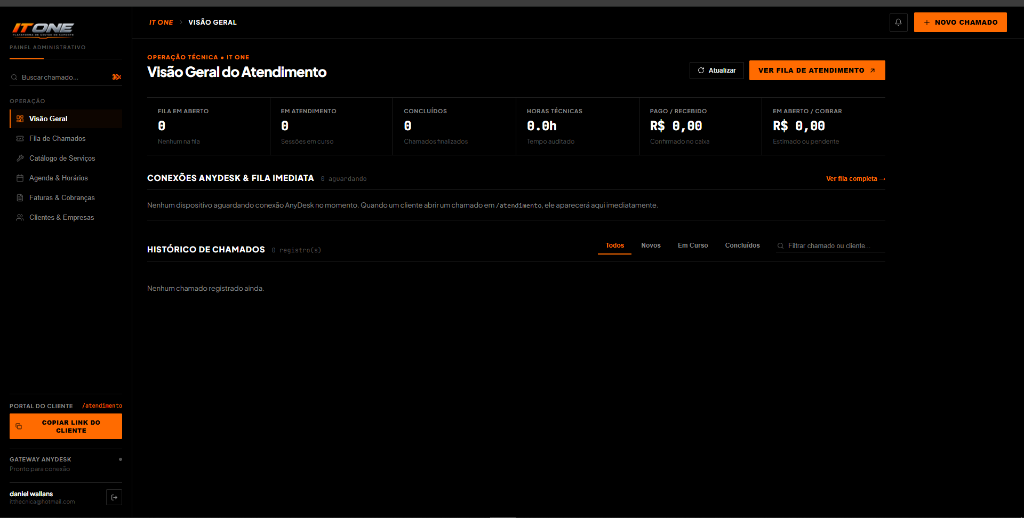
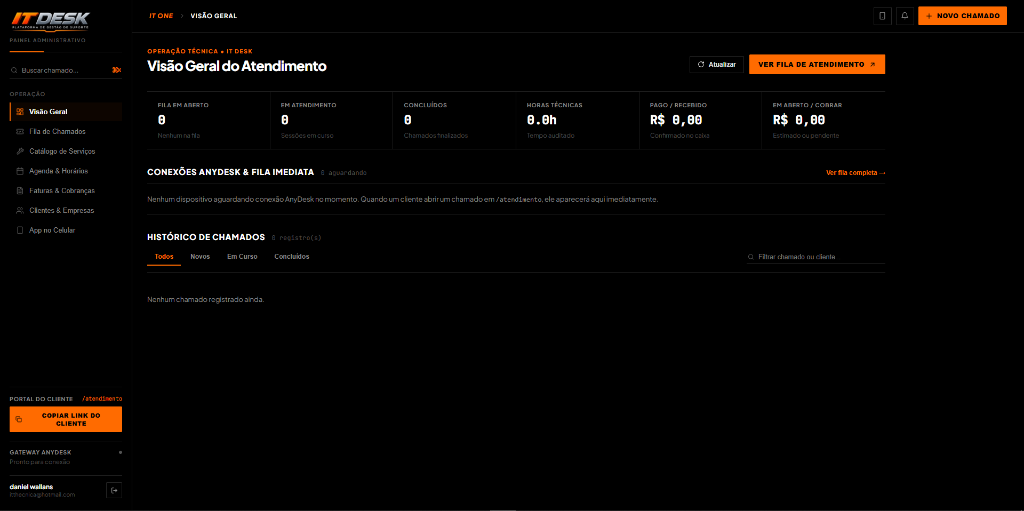
docs: humanize readme and update previews and app strings

diff --git a/apps/web/src/App.jsx b/apps/web/src/App.jsx
@@ -125,7 +125,7 @@ export default function App() {
         setPushSubscribed(false);
         if (interactive) {
           alert(
-            'Atenção iPhone (Safari): A Apple só libera notificações com o App Fechado / Tela Bloqueada quando você instala pelo Safari tocando em "Compartilhar" -> "Adicionar à Tela de Início". Adicione à Tela de Início, abra o novo ícone IT ONE com a logo oficial e toque neste botão novamente!'
+            'Atenção iPhone (Safari): A Apple só libera notificações com o App Fechado / Tela Bloqueada quando você instala pelo Safari tocando em "Compartilhar" -> "Adicionar à Tela de Início". Adicione à Tela de Início, abra o novo ícone IT DESK com a logo oficial e toque neste botão novamente!'
           );
         }
         return false;
@@ -153,7 +153,7 @@ export default function App() {
         const perm = await Notification.requestPermission();
         if (perm !== 'granted') {
           setPushSubscribed(false);
-          alert('Permissão de notificação negada. Ative as notificações para o app IT ONE nos Ajustes do iPhone.');
+          alert('Permissão de notificação negada. Ative as notificações para o app IT DESK nos Ajustes do iPhone.');
           return false;
         }
       }
@@ -288,7 +288,7 @@ export default function App() {
     window.history.replaceState({}, '', '/login');
   };
 
-  // Tela de Carregamento / Splash Screen Oficial IT ONE (Preto Absoluto + Efeitos Laranja + Barra de Progresso)
+  // Tela de Carregamento / Splash Screen Oficial IT DESK (Preto Absoluto + Efeitos Laranja + Barra de Progresso)
   if (booting && !isCustomerLandingRoute) {
     const bootStepLabel =
       bootProgress < 45
@@ -356,7 +356,7 @@ export default function App() {
           }}
         />
 
-        {/* Logo Oficial IT ONE — Plataforma de Gestão de Suporte */}
+        {/* Logo Oficial IT DESK — Plataforma de Gestão de Suporte */}
         <div
           style={{
             position: 'relative',
@@ -369,8 +369,8 @@ export default function App() {
           }}
         >
           <img
-            src="/assets/logo-it-one.png"
-            alt="IT ONE — Plataforma de Gestão de Suporte"
+            src="/assets/logo-it-desk.png"
+            alt="IT DESK — Plataforma de Gestão de Suporte"
             style={{
               width: '88%',
               maxWidth: '380px',
@@ -576,13 +576,13 @@ export default function App() {
           {/* Breadcrumb / Brand Mobile com Logo Oficial Destacada */}
           <div style={{ display: 'flex', alignItems: 'center', gap: '10px', fontSize: '12px', textTransform: 'uppercase', letterSpacing: '0.08em', minWidth: 0 }}>
             <img
-              src="/assets/logo-it-one.png"
-              alt="IT ONE"
+              src="/assets/logo-it-desk.png"
+              alt="IT DESK"
               className="adm-mobile-only"
               onClick={() => setCurrentTab('dashboard')}
               style={{ height: '32px', maxWidth: '140px', width: 'auto', objectFit: 'contain', cursor: 'pointer', flexShrink: 0 }}
             />
-            <span className="adm-desktop-only" style={{ color: 'var(--orange)', fontWeight: 800, fontStyle: 'italic' }}>IT ONE</span>
+            <span className="adm-desktop-only" style={{ color: 'var(--orange)', fontWeight: 800, fontStyle: 'italic' }}>IT DESK</span>
             <ChevronRight size={13} color="var(--text-tertiary)" style={{ flexShrink: 0 }} />
             <span style={{ color: 'var(--text-white)', fontWeight: 700, whiteSpace: 'nowrap', overflow: 'hidden', textOverflow: 'ellipsis', fontSize: '11.5px' }}>
               {tabLabels[currentTab]}

diff --git a/README.md b/README.md
@@ -1,61 +1,10 @@
-<div align="center">
-  <img src="apps/web/public/assets/logo-it-desk.png" alt="IT DESK — Plataforma de Gestão de Suporte" width="420" />
+# IT DESK — Plataforma de Gestão de Suporte
 
-  <h3>PLATAFORMA DE GESTÃO DE SUPORTE TÉCNICO & ATENDIMENTO REMOTO</h3>
-  <p><strong>IT DESK</strong> • Uma solução corporativa desenvolvida por <strong>IT THECNICA</strong></p>
-</div>
+Plataforma proprietária desenvolvida pela **IT THECNICA** para centralizar atendimentos de TI, conexões remotas via **AnyDesk** e liquidação financeira via **Pix**.
 
----
-
-## Sobre a Plataforma
-
-A **IT DESK** é uma plataforma proprietária de gestão operacional para suporte técnico especializado e atendimento remoto auditado, projetada pela **IT THECNICA** para conectar clientes e especialistas em tempo real com transparência de ponta a ponta.
-
-O ecossistema elimina intermediários e centraliza todo o ciclo de um atendimento técnico — desde a abertura do chamado e diagnóstico prévio até a conexão remota via **AnyDesk**, cronometragem oficial de sessão, chat em tempo real e liquidação financeira via **Pix**.
-
-<div align="center">
-  <img src="apps/web/public/assets/preview-admin.png" alt="Painel Operacional IT DESK" width="100%" />
-</div>
+## O que a plataforma faz
+- **Central Operacional (`/`)**: Acompanhamento de chamados em fila, tempo de atendimento auditado, alertas sonoros de novas solicitações e controle financeiro.
+- **Portal do Cliente (`/atendimento`)**: Abertura rápida de chamados, checklist de diagnóstico, orientações para AnyDesk, chat ao vivo e pagamento via Pix.
 
 ---
-
-## Arquitetura de Experiência
-
-A plataforma é dividida em dois ambientes dedicados, desenhados sob uma identidade editorial **Black & Orange** de alto contraste, focada em leitura rápida e precisão operacional:
-
-### 1. Portal Exclusivo do Cliente (`/atendimento`)
-Ambiente direto e sem fricção enviado ao cliente para solicitação e acompanhamento de suporte:
-- **Catálogo Transparente de Serviços**: Consulta imediata dos serviços prestados, valores de referência (preço fixo ou hora técnica) e tempo estimado de execução.
-- **Triagem Inteligente por Serviço**: Perguntas dinâmicas de checklist de acordo com o problema selecionado, acelerando o diagnóstico antes mesmo da conexão remota.
-- **Integração Direta com AnyDesk**: Orientação integrada para localização do endereço AnyDesk de 9 dígitos e link oficial de download para o primeiro atendimento.
-- **Acompanhamento em Tempo Real**: Indicador visual de etapas (*Na fila → Em atendimento → Concluído*), cronômetro sincronizado ao vivo com o especialista e chat instantâneo no próprio chamado.
-- **Pagamento Pix Integrado & Envio de Comprovante**: Geração automática de **QR Code Pix** e código **Pix Copia e Cola** ao encerramento do serviço, com envio de comprovante (imagem ou PDF) diretamente pelo portal e opção de pagamento posterior.
-- **Histórico Financeiro Separado**: Distinção clara entre valores **Pagos / Concluídos** e chamados **Em Aberto** para total transparência com o cliente.
-
----
-
-### 2. Central Operacional do Especialista (`/`)
-Painel administrativo de comando e telemetria da **IT THECNICA**:
-- **Visão Geral & Telemetria em Tempo Real**: Monitoramento contínuo da fila de espera, sessões AnyDesk ativas, horas técnicas trabalhadas, faturamento confirmado e valores a receber.
-- **Alerta Sonoro Instantâneo**: Sistema de notificação sonora cristalina (*Tri-tone*) e alerta visual em tempo real sempre que um novo chamado é aberto ou um comprovante Pix é enviado pelo cliente.
-- **Gestão e Auditoria de Sessão Remota**: Controle de início, pausa, retomada e encerramento de sessões AnyDesk com cálculo de tempo persistido no servidor e registro do resumo técnico da solução.
-- **Catálogo Dinâmico**: Criação e edição instantânea de serviços, preços e perguntas de triagem, refletindo imediatamente na página pública do cliente.
-- **Módulo Financeiro & Cobrança Pix**:
-  - Cadastro de chaves Pix e upload de imagem de QR Code oficial.
-  - Painel dedicado de **Pagamentos Pendentes (Cobrar Depois)** para atendimentos já finalizados.
-  - Visualização de comprovantes anexados pelos clientes, disparo de cobrança formatada direto para o **WhatsApp** do cliente e baixa de pagamento com 1 clique.
-  - Controle de caixa completo com registro de entradas, retiradas/despesas e saldo líquido.
-
----
-
-## Princípios de Segurança & Privacidade
-
-- **Zero Armazenamento de Senhas Remotas**: A plataforma registra exclusivamente o ID público do AnyDesk e o tempo de sessão autorizado pelo cliente. Nenhuma senha ou credencial de acesso desassistido é armazenada.
-- **Isolamento de Dados por Cliente**: Cada cliente visualiza unicamente seus próprios chamados, mensagens e histórico financeiro.
-- **Auditoria de Tempo no Servidor**: O tempo de atendimento é calculado com base em carimbos de tempo oficiais (`UTC`), garantindo precisão na cobrança por hora técnica ou serviço fechado.
-
----
-
-<div align="center">
-  <p><strong>© 2026 IT DESK — Todos os direitos reservados a Daniel Wallans · CEO IT THECNICA</strong></p>
-</div>
+© 2026 IT DESK — IT THECNICA. Desenvolvido por Daniel Wallans.
